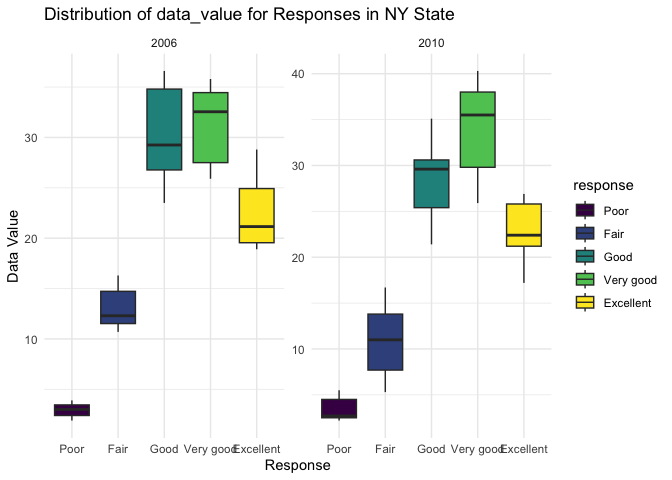
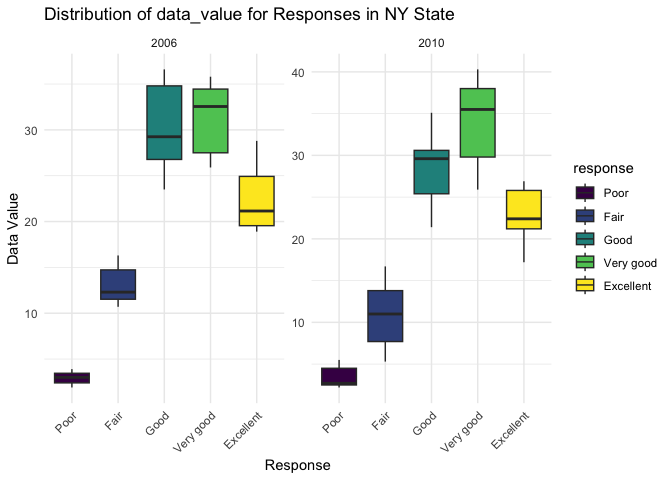
Make changes to plot theme

diff --git a/p8105_hw3_md4270.md b/p8105_hw3_md4270.md
@@ -317,7 +317,10 @@ ggplot(ny_data, aes(x = response, y = data_value, fill = response)) +
   labs(title = "Distribution of data_value for Responses in NY State",
        y = "Data Value",
        x = "Response") +
-  theme_minimal()
+  theme_minimal() +
+  theme(axis.text.x = element_text(angle = 45, hjust = 1))
 ```
 
 ![](p8105_hw3_md4270_files/figure-gfm/unnamed-chunk-17-1.png)<!-- -->
+
+## Problem 3
